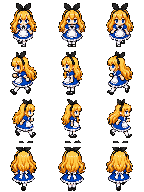
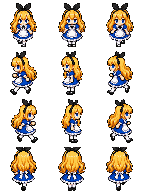
fix(office): ground Alice rightward gait

Changed region(s): [[0.7222, 0.5, 0.9444, 0.75], [0.0556, 0.5, 0.2778, 0.75], [0.4167, 0.5, 0.5833, 0.75]]

diff --git a/scripts/repair-office-alice-side-gait.py b/scripts/repair-office-alice-side-gait.py
@@ -1,0 +1,45 @@
+#!/usr/bin/env python3
+"""Repair Alice's rightward Office gait from the approved leftward row."""
+
+from __future__ import annotations
+
+import argparse
+from pathlib import Path
+
+from PIL import Image
+
+
+CELL_SIZE = 48
+ATLAS_SIZE = (CELL_SIZE * 3, CELL_SIZE * 4)
+LEFT_ROW = 1
+RIGHT_ROW = 2
+
+
+def main() -> None:
+    parser = argparse.ArgumentParser()
+    parser.add_argument("atlas", type=Path)
+    args = parser.parse_args()
+
+    atlas = Image.open(args.atlas).convert("RGBA")
+    if atlas.size != ATLAS_SIZE:
+        raise ValueError(f"expected {ATLAS_SIZE[0]}x{ATLAS_SIZE[1]} atlas, got {atlas.size}")
+
+    for column in range(3):
+        left = column * CELL_SIZE
+        source = atlas.crop(
+            (
+                left,
+                LEFT_ROW * CELL_SIZE,
+                left + CELL_SIZE,
+                (LEFT_ROW + 1) * CELL_SIZE,
+            ),
+        )
+        mirrored = source.transpose(Image.Transpose.FLIP_LEFT_RIGHT)
+        atlas.paste(mirrored, (left, RIGHT_ROW * CELL_SIZE))
+
+    atlas.save(args.atlas, optimize=True)
+    print(args.atlas)
+
+
+if __name__ == "__main__":
+    main()

diff --git a/plans/office-floor.md b/plans/office-floor.md
@@ -2397,6 +2397,24 @@ Coworker map-scale normalization follow-up (2026-08-29):
   run (5,070 passing; one file and nine tests skipped), and the UI production build passed; the existing large-chunk
   advisory remains unchanged.
 
+Alice right-gait repair follow-up (2026-08-30):
+
+- Maintainer screenshots showed Alice's body apparently floating above her shoes while walking right. Native-cell
+  measurement disproved a size mismatch: all three right-facing frames occupied the same 44px height, but each frame's
+  main body stopped at row 41 while two detached shoe components resumed at rows 44–46. Left, down, and up frames each
+  retained one connected silhouette.
+- Compared CSS frame offsets, mirroring the approved left gait, and regenerating the right-facing source. The original
+  1086x1448 generated master confirmed that the gap already existed before packaging, so re-cropping could not repair
+  it. Alice has no handed prop or asymmetric side marking; chose a per-cell mirror of the connected left row because it
+  preserves exact identity, palette, scale, shoe baseline, and frame order without generation drift.
+- Added a deterministic repair script and rebuilt only the right-facing atlas row. All three right cells now exactly
+  match the horizontal mirror of their left counterpart and contain one connected foreground component instead of
+  three.
+- Browser-played a real route to the Floor terminal and captured right-facing frames 0, 1, and 2 in motion. Alice kept
+  one planted shoe baseline and a connected silhouette through the cycle; pathfinding, turning, and the route HUD were
+  unchanged. Focused Alice/sprite-pack specs, root/UI TypeScript, the 612-file Vitest run (5,072 passing; one file and
+  nine tests skipped), and the UI production build passed. The existing large-chunk advisory remains unchanged.
+
 ## Completion
 
 计划只在 maintainer 接受真实浏览器中的 Live、All groups、employee dialog 和 pause/log

diff --git a/ui/public/office/packs/README.md b/ui/public/office/packs/README.md
@@ -14,6 +14,14 @@ sheet with genuine alpha. Packaging removed disconnected generation artifacts,
 normalized every sprite to a common baseline, nearest-neighbor reduced each
 cell to 48x48, and quantized the final sheet to a shared 64-color palette.
 
+The generated right-facing source separated Alice's body from both shoes, which
+read as a floating torso at native map scale. Alice has no handed prop or
+asymmetric side marking, so the runtime's right-facing row is intentionally a
+per-frame horizontal mirror of the approved connected left-facing row. Frame
+order is preserved, keeping the same stride phase, scale, and shoe baseline in
+both directions. `scripts/repair-office-alice-side-gait.py` owns that
+deterministic repair.
+
 Office no longer ships or loads the full Codex pet atlas. The player, map
 collision, and four-direction animation now have their own purpose-built asset;
 the desktop pet remains a separate product surface.
